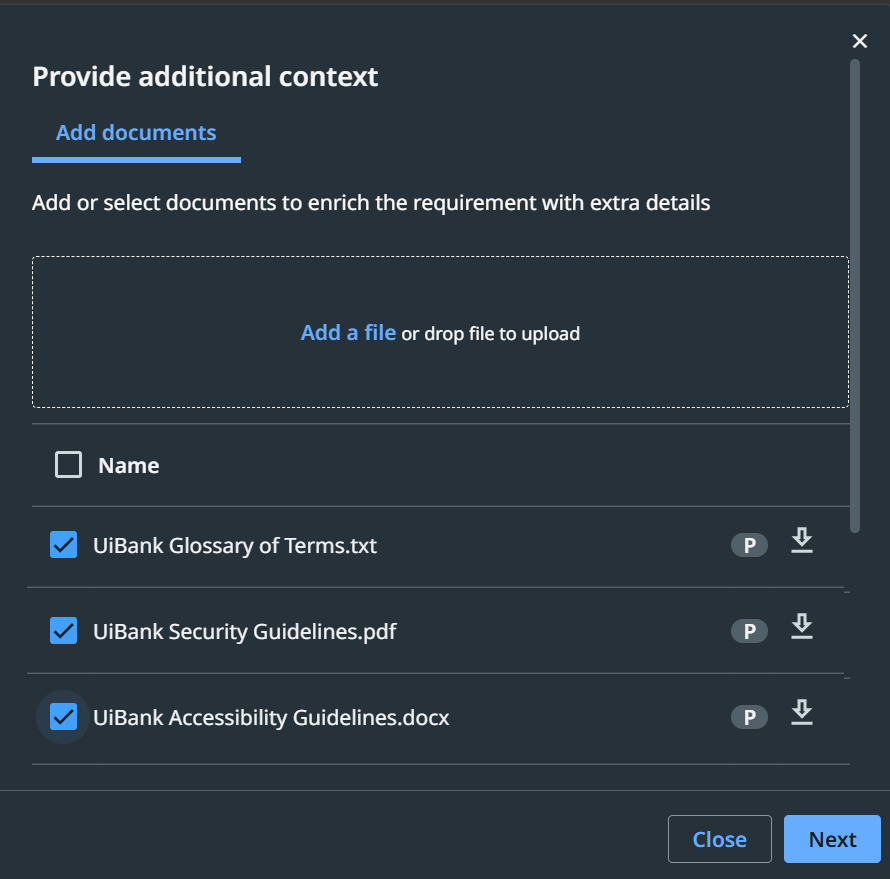
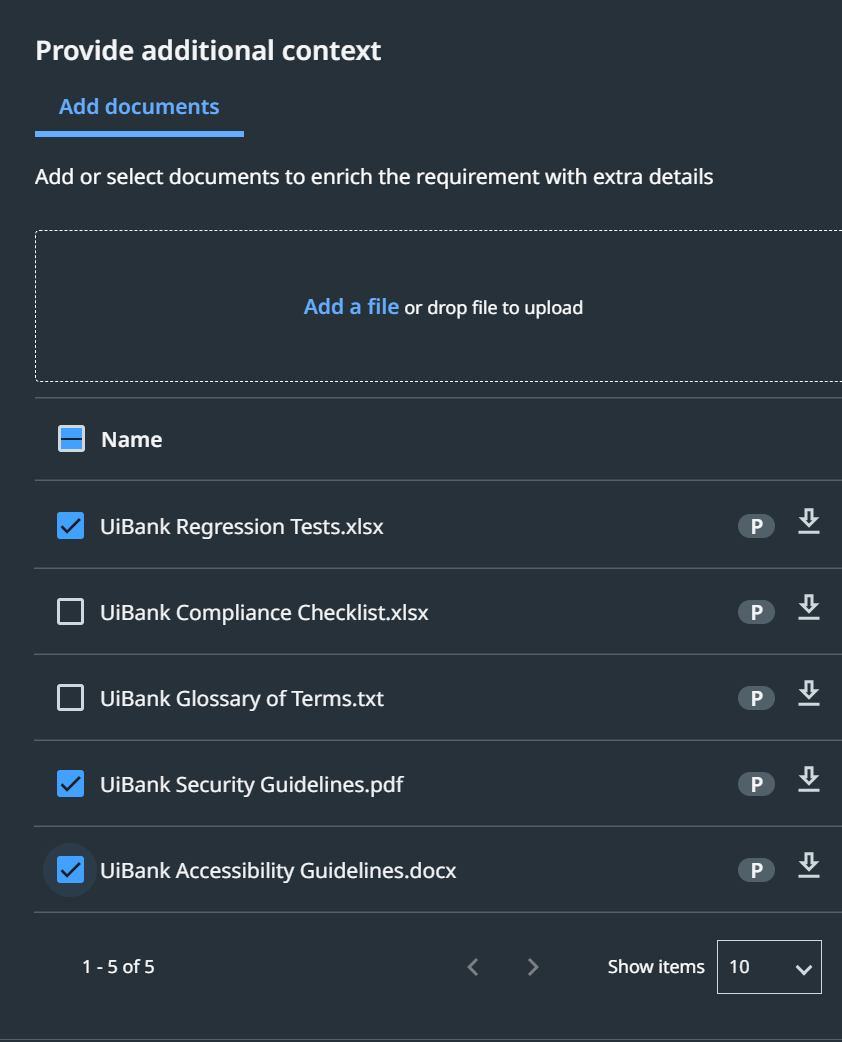
Show the three context documents checked in the step 2 screenshot

diff --git a/HANDOFF.md b/HANDOFF.md
@@ -135,4 +135,4 @@ An MkDocs (Material) site for the hands-on **Coding Agents for Test** workshop. 
 | 2026-11-06 | Step 2 (owner): the *Check the requirement against UiBank* section is merged into the *Look beyond the suggestion* box as point 2 (apply with age 17, compare with "Not approved due to age."); point 1 is the suggestion screenshot and the $150,000 rule. *Fix the requirement* is unchanged and relies on point 2. |
 | 2026-11-06 | Step 2 rewritten so the UiBank check is said once (owner): one *Fix the requirement* section (why, apply with age 17 and note the message, edit and save), followed by a collapsed *Sample: check a suggestion against UiBank* (screenshot and the $150,000 rule). The *Make every rule measurable* tip is unchanged. |
 | 2026-11-06 | Step 2 flow (owner): the sample moved under item 7 as *Sample: turn a suggestion into a rule*; item 7 says to use the exact text UiBank shows; *Fix the requirement* opens with "The original acceptance criteria need the same check." The *Make every rule measurable* tip is trimmed to exact boundaries (18, $100,000): no repeated message line, no 65. |
-| 2026-11-06 | Context documents (owner): steps 2 and 3 now select the same three: **Regression Tests.xlsx**, **Security Guidelines.pdf**, **Accessibility Guidelines.docx**, with reasons checked against the files. Glossary dropped (mortgage acronyms the requirement doesn't use); Compliance Checklist repeats Security. The Fusion PDF names none of these documents. Step 2's Add documents screenshot still shows the Glossary checked: retake with Regression Tests. |
+| 2026-11-06 | Context documents (owner): steps 2 and 3 now select the same three: **Regression Tests.xlsx**, **Security Guidelines.pdf**, **Accessibility Guidelines.docx**, with reasons checked against the files. Glossary dropped (mortgage acronyms the requirement doesn't use); Compliance Checklist repeats Security. The Fusion PDF names none of these documents. Owner retook the step 2 Add documents screenshot with the three checked; step 3 has no screenshot (same dialog, owner). |
